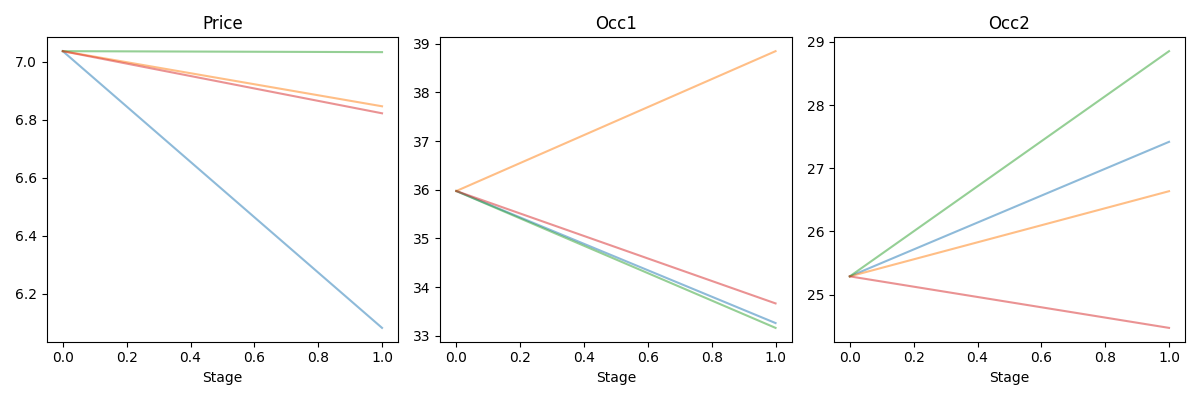
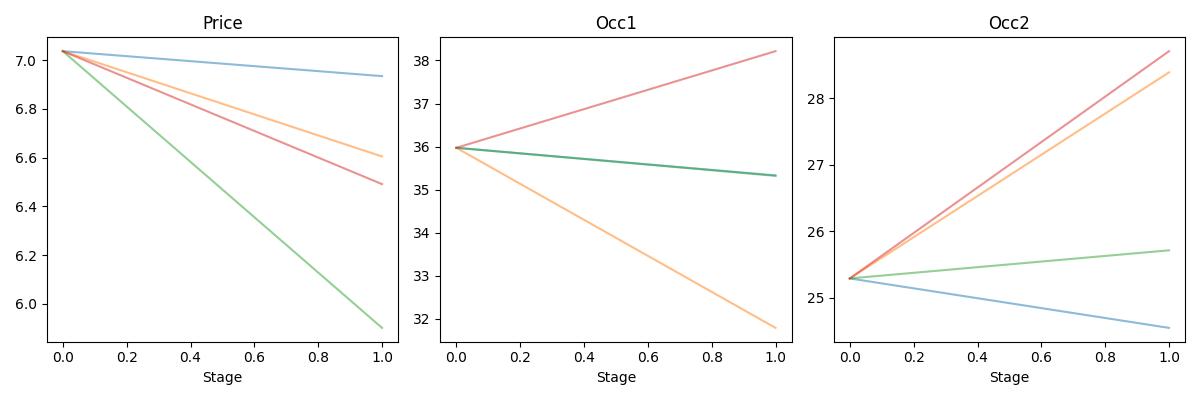
.

diff --git a/PART_B/policies/multSP_policy.py b/PART_B/policies/multSP_policy.py
@@ -326,7 +326,11 @@ def build_multistage_model(state, nodes, paths, na_groups, horizon):
     m.TS  = m.T * m.S
 
     # ── Initial state (identical to SP_policy) ────────────────────────────────
-    v_prev = 1 if state['vent_counter'] > 0 else 0
+    # vent_counter > 0 means vent was recently on, but only [1,2] means forced ON
+    # vent_counter >= U_vent means the inertia window has expired
+    U_vent = int(DATA['U_vent']) if 'U_vent' in DATA else 3  # match your m.U_vent
+    v_prev = 1 if 0 < state['vent_counter'] < U_vent else 0
+    #v_prev = 1 if state['vent_counter'] > 0 else 0
 
     m.Tinit    = Param(m.R, initialize={1: state['T1'], 2: state['T2']})
     m.Hinit    = Param(initialize=state['H'])
@@ -400,6 +404,19 @@ def build_multistage_model(state, nodes, paths, na_groups, horizon):
 
     m.T_in = Var(m.RTS, domain=NonNegativeReals)
     m.Hum  = Var(m.TS,  domain=NonNegativeReals)
+
+
+    # Slack variables for comfort violations (added to objective)
+    # At the top of build_multistage_model, add one parameter:
+    COMFORT_BUFFER = 1.5   # °C above Tmin to start penalizing
+    COMFORT_WEIGHT = 5.0   # tune this — should be ~mean(price * Pr) to make it meaningful
+
+    m.slack_temp = Var(m.RTS, domain=NonNegativeReals)
+
+    # slack >= (Tmin + buffer) - T_in  (active only when T_in is below buffer)
+    m.CSlack = Constraint(m.RTS,
+        rule=lambda m, r, t, s: m.slack_temp[r, t, s] >= 
+            (m.Tmin + COMFORT_BUFFER) - m.T_in[r, t, s])
 
     # =========================================================================
     # CONSTRAINTS — copy-paste identical to SP_policy.py
@@ -534,8 +551,20 @@ def build_multistage_model(state, nodes, paths, na_groups, horizon):
     # =========================================================================
     # OBJECTIVE — probability-weighted cost (IDENTICAL to SP_policy)
     # =========================================================================
+    # def objective(m):
+    #     return sum(
+    #         m.pi[s] * sum(
+    #             m.prices[t, s] * (
+    #                 sum(m.Heat[r, t, s] for r in m.R)
+    #                 + m.Vent[t, s] * m.Pvent
+    #             )
+    #             for t in m.T
+    #         )
+    #         for s in m.S
+    #     )
+    # m.obj = Objective(rule=objective, sense=minimize)
     def objective(m):
-        return sum(
+        energy_cost = sum(
             m.pi[s] * sum(
                 m.prices[t, s] * (
                     sum(m.Heat[r, t, s] for r in m.R)
@@ -545,6 +574,16 @@ def build_multistage_model(state, nodes, paths, na_groups, horizon):
             )
             for s in m.S
         )
+        # Penalise scenarios where T_in is below Tmin + buffer
+        # slack[r,t,s] = max(0, (Tmin + buffer) - T_in[r,t,s])
+        comfort_penalty = sum(
+            m.pi[s] * sum(
+                COMFORT_WEIGHT * m.slack_temp[r, t, s]
+                for r in m.R for t in m.T
+            )
+            for s in m.S
+        )
+        return energy_cost + comfort_penalty
     m.obj = Objective(rule=objective, sense=minimize)
 
     return m

diff --git a/PART_B/Environment.py b/PART_B/Environment.py
@@ -225,7 +225,7 @@ for day in range(E_days):
         if t + 1 < T_hours:
             state['Occ1'] = day_occ1[t + 1]
             state['Occ2'] = day_occ2[t + 1]
-            state['price_previous'] = state['price_t']
+            state['price_previous'] = day_prices[t]
             state['price_t'] = day_prices[t + 1]
             # current_time already updated in apply_dynamics, so it will automatically move to the next hour in the next iteration
         print(f"Day {day}, Time {t}: Decision taken: {decision}", flush=True)
